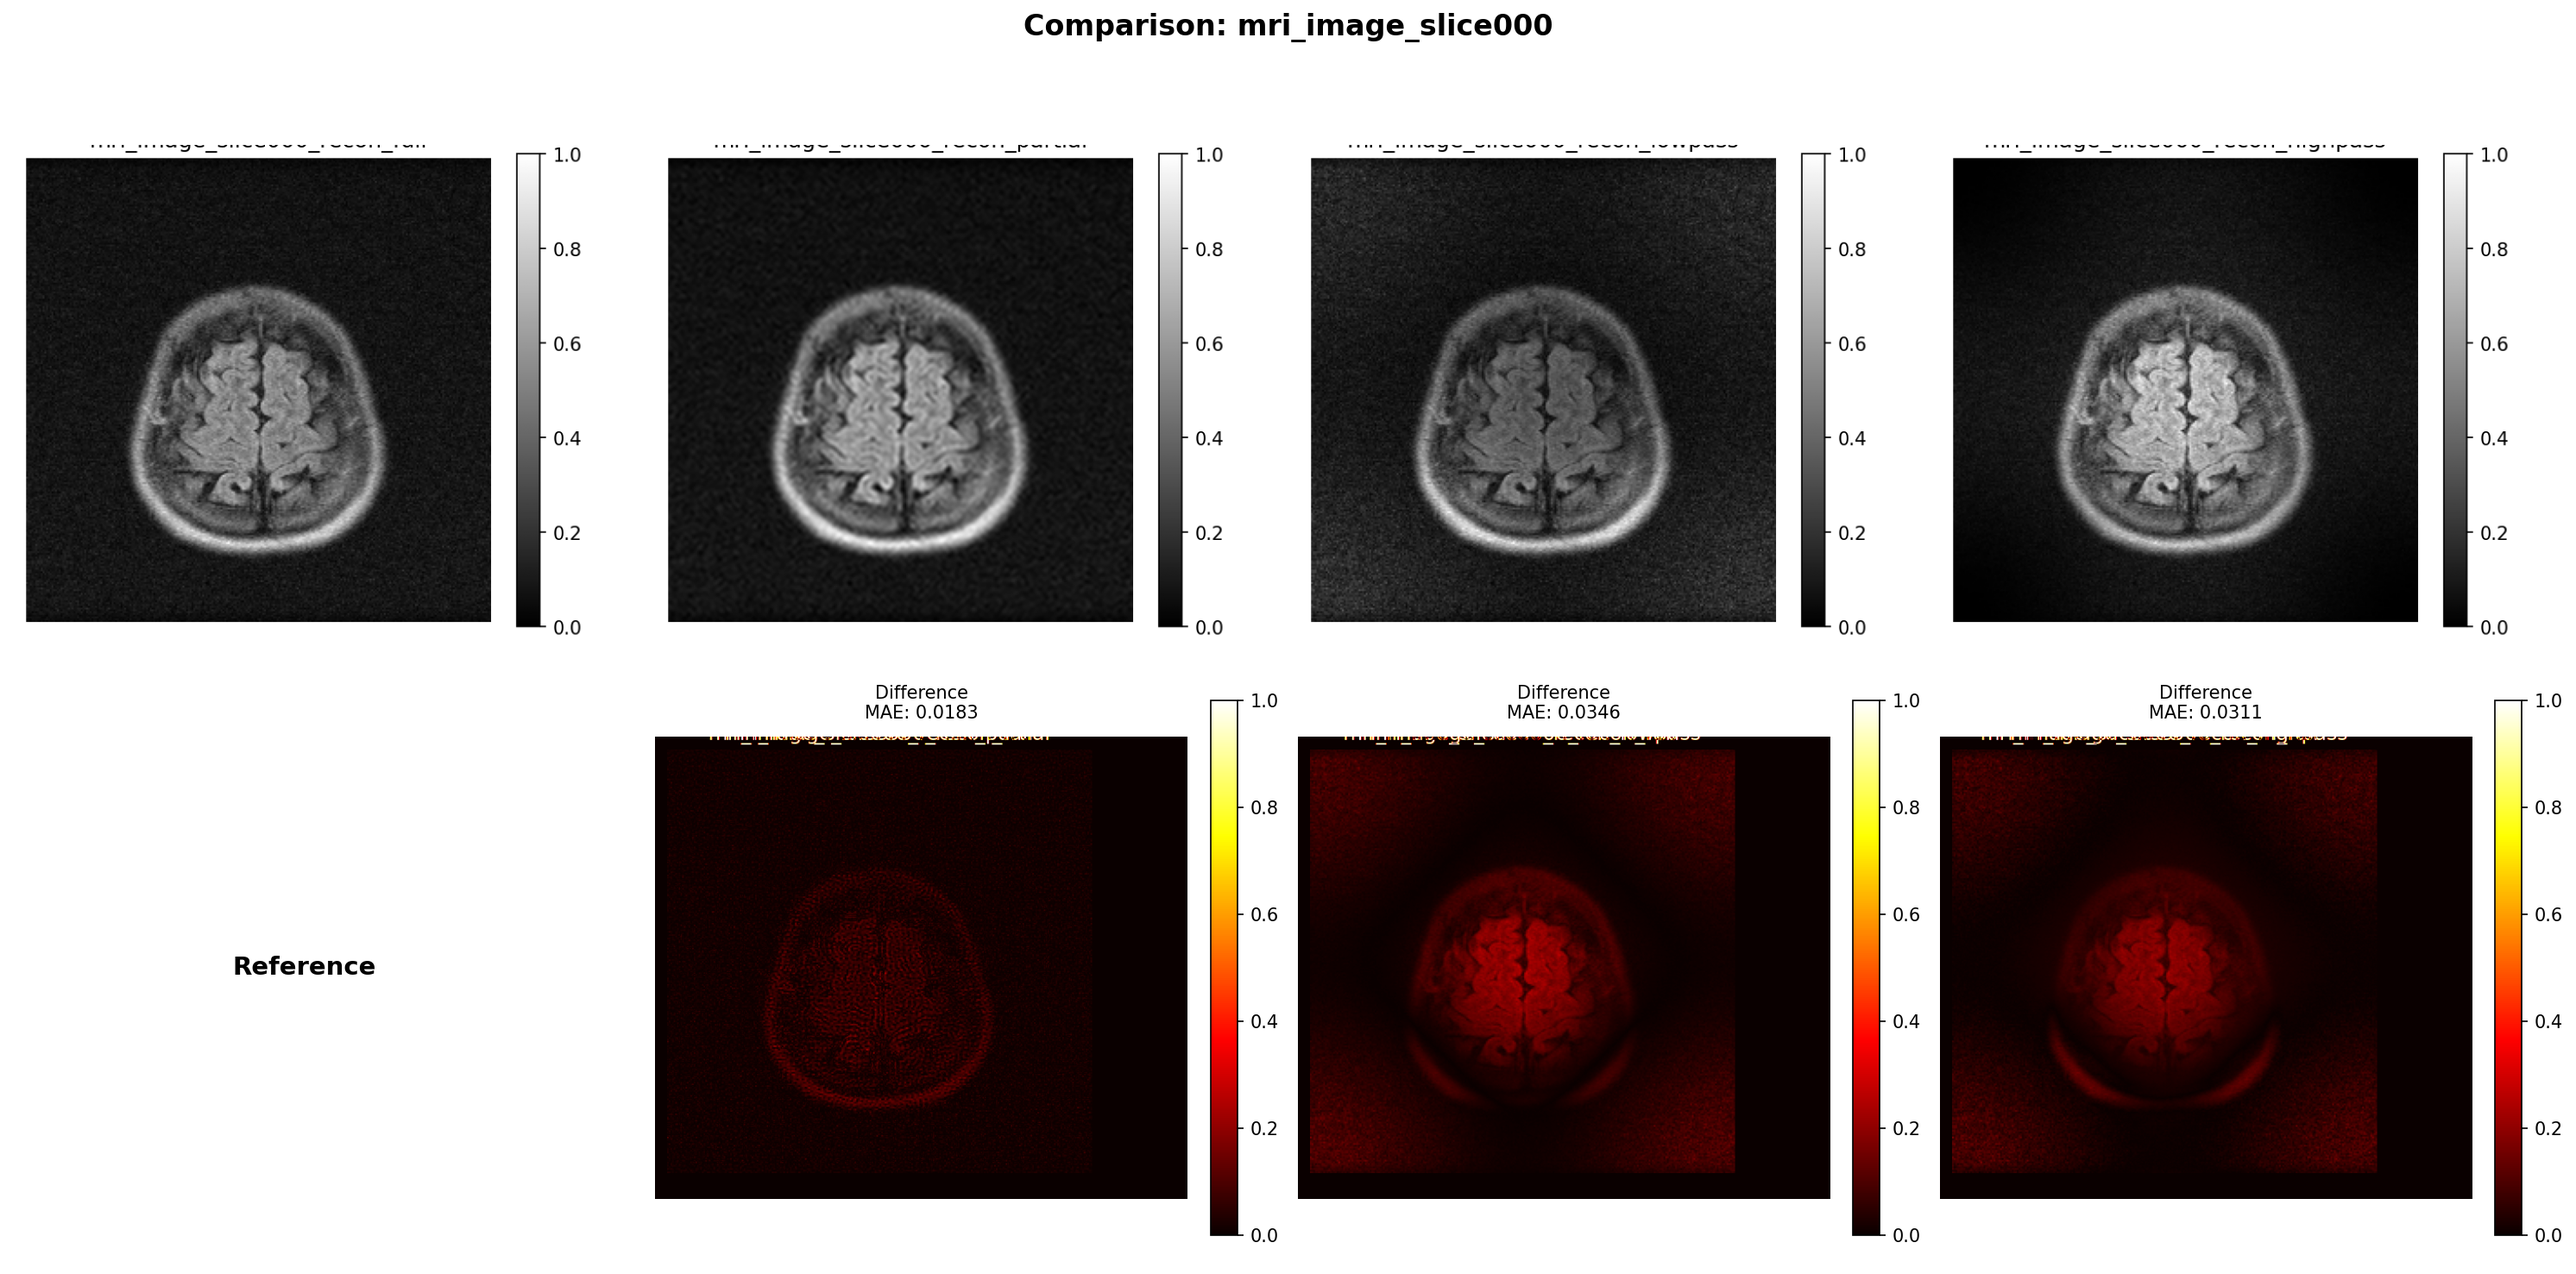
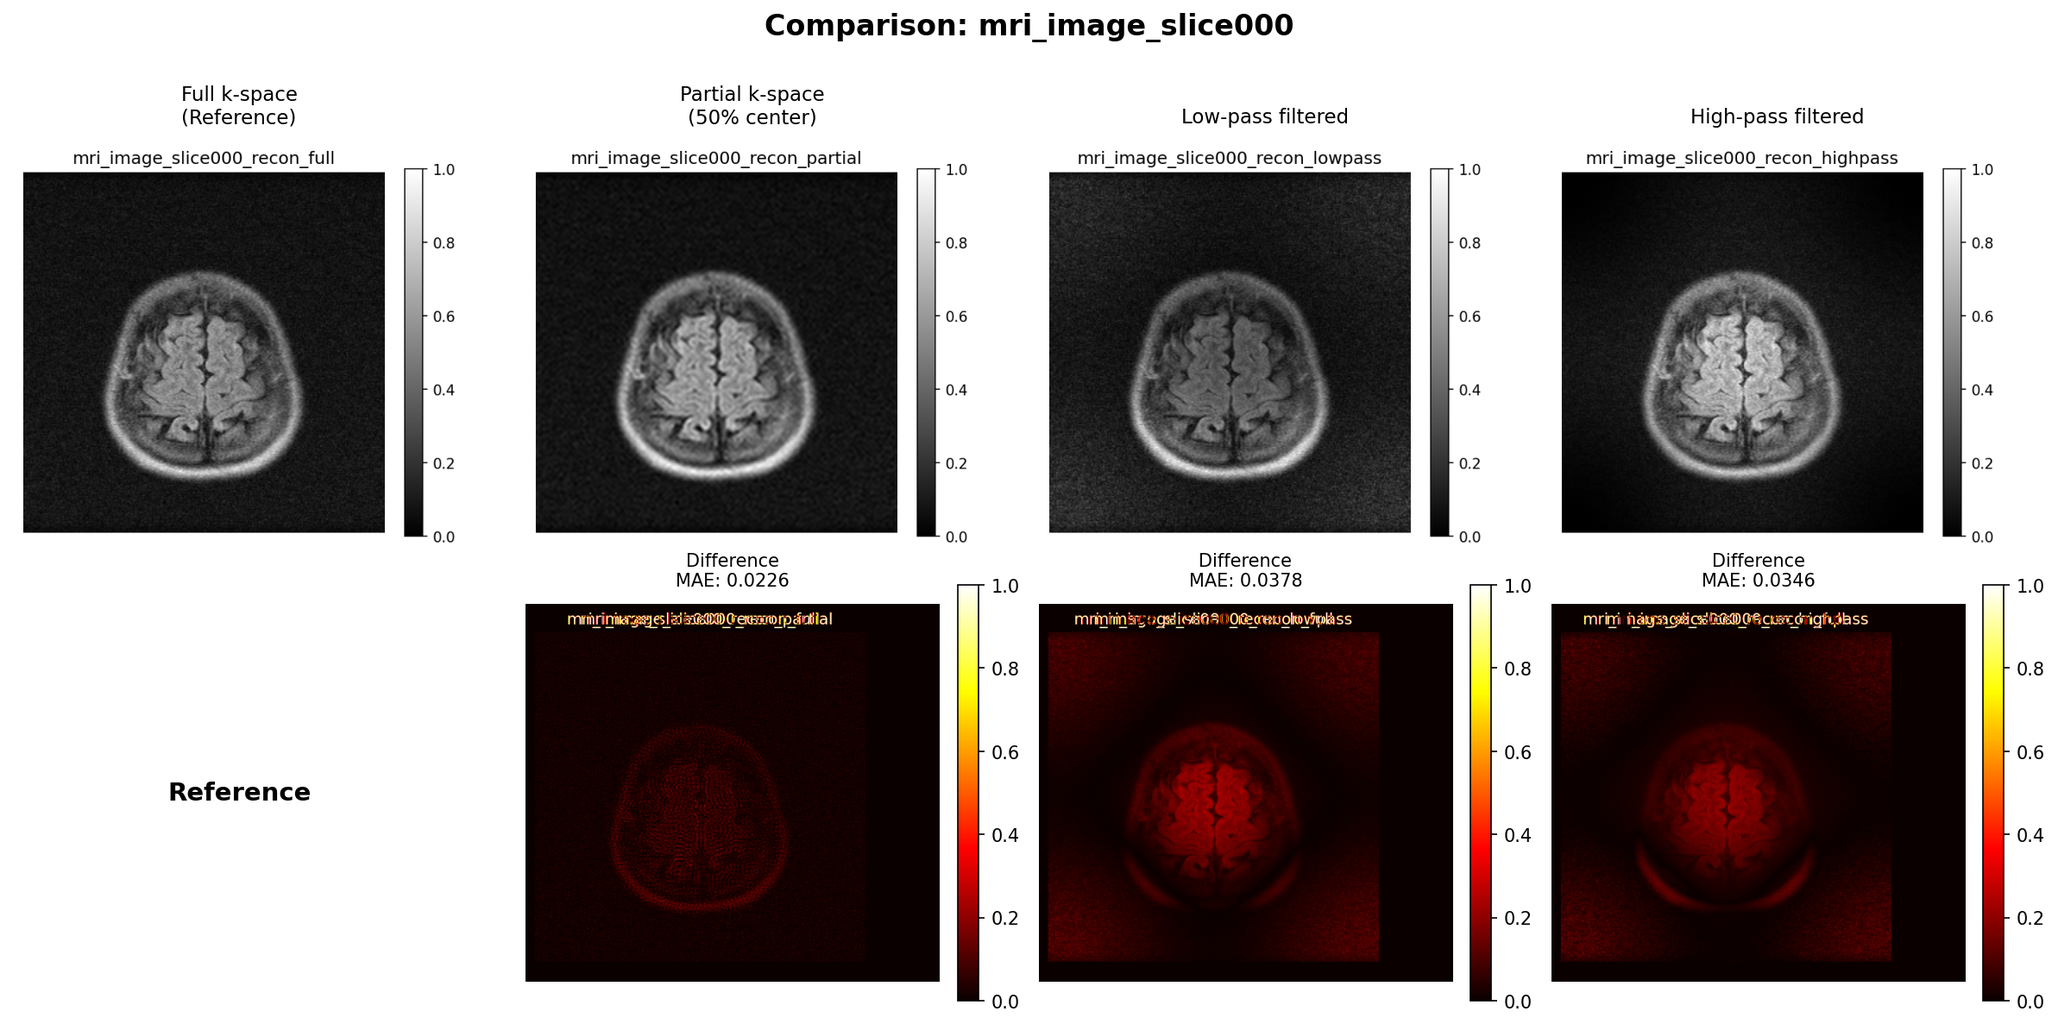
removing cropping code

diff --git a/kspace_analysis.py b/kspace_analysis.py
@@ -8,8 +8,8 @@ OUT_DIR = "kspace_results"
 RESULTS_DIR = "kspace_analysis"
 os.makedirs(RESULTS_DIR, exist_ok=True)
 
-def load_image_for_analysis(filepath, crop_title=True):
-    """Load image for analysis, optionally cropping title region."""
+def load_image(filepath):
+    """Load grayscale image and normalize using the same scale."""
     img = plt.imread(filepath)
     if img.ndim == 3:
         img = np.mean(img[:, :, :3], axis=2)  # drop alpha if any
@@ -21,11 +21,6 @@ def load_image_for_analysis(filepath, crop_title=True):
 
     # Normalize globally to [0,1]
     img = (img - img.min()) / (img.max() - img.min() + 1e-8)
-
-    # Crop title region (approximately 30 pixels from top)
-    if crop_title:
-        img = img[35:, :]  # Remove top 30 pixels where title is located
-
     return img
 
 def calculate_sharpness(image):
@@ -50,11 +45,11 @@ def analyze_dataset(prefix):
     print(f"Analyzing: {prefix}")
     print(f"{'=' * 60}\n")
 
-    # Load all four versions (crop titles for clean analysis)
-    full_img = load_image_for_analysis(f"{OUT_DIR}/{prefix}_recon_full.png", crop_title=True)
-    partial_img = load_image_for_analysis(f"{OUT_DIR}/{prefix}_recon_partial.png", crop_title=True)
-    lowpass_img = load_image_for_analysis(f"{OUT_DIR}/{prefix}_recon_lowpass.png", crop_title=True)
-    highpass_img = load_image_for_analysis(f"{OUT_DIR}/{prefix}_recon_highpass.png", crop_title=True)
+    # Load all four versions
+    full_img = load_image(f"{OUT_DIR}/{prefix}_recon_full.png")
+    partial_img = load_image(f"{OUT_DIR}/{prefix}_recon_partial.png")
+    lowpass_img = load_image(f"{OUT_DIR}/{prefix}_recon_lowpass.png")
+    highpass_img = load_image(f"{OUT_DIR}/{prefix}_recon_highpass.png")
 
     # Calculate metrics
     images = {
